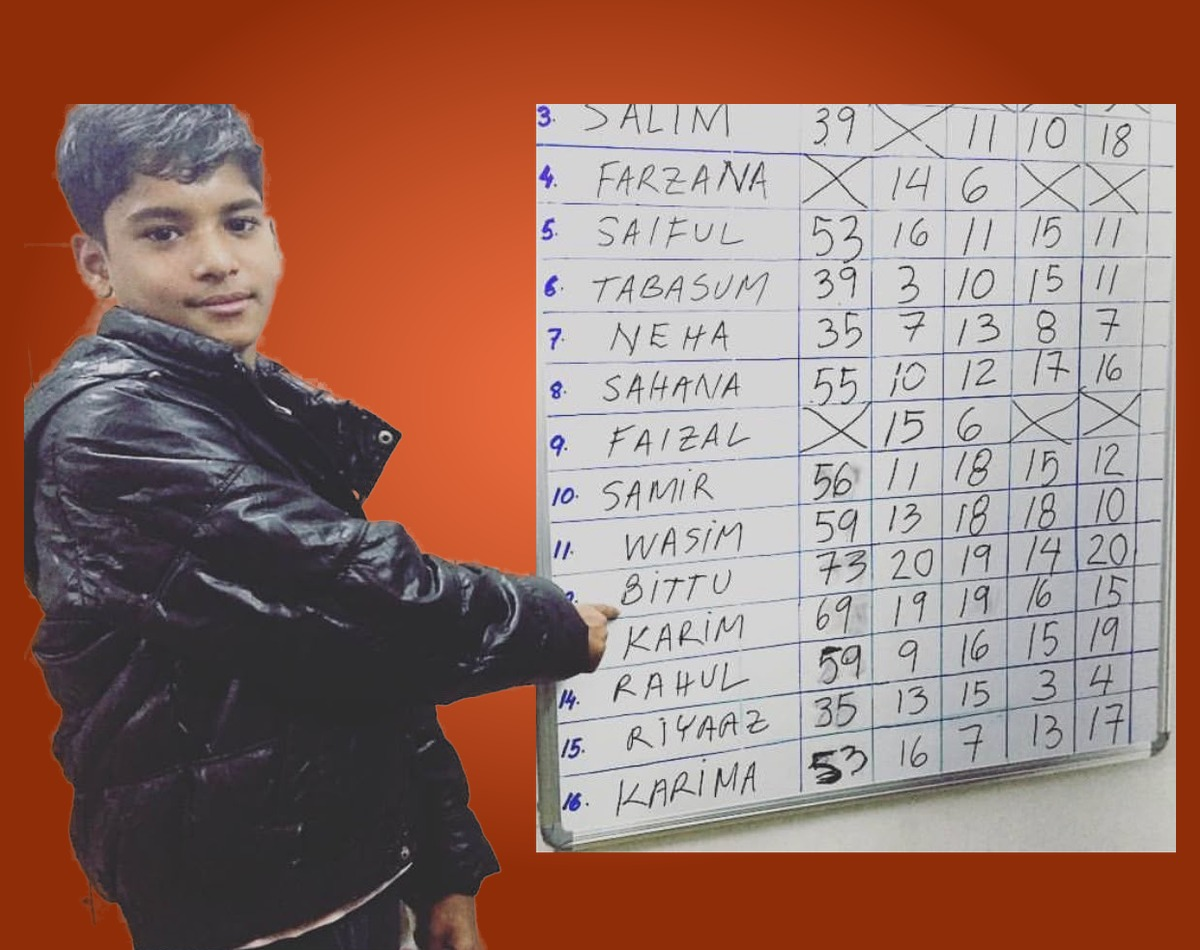
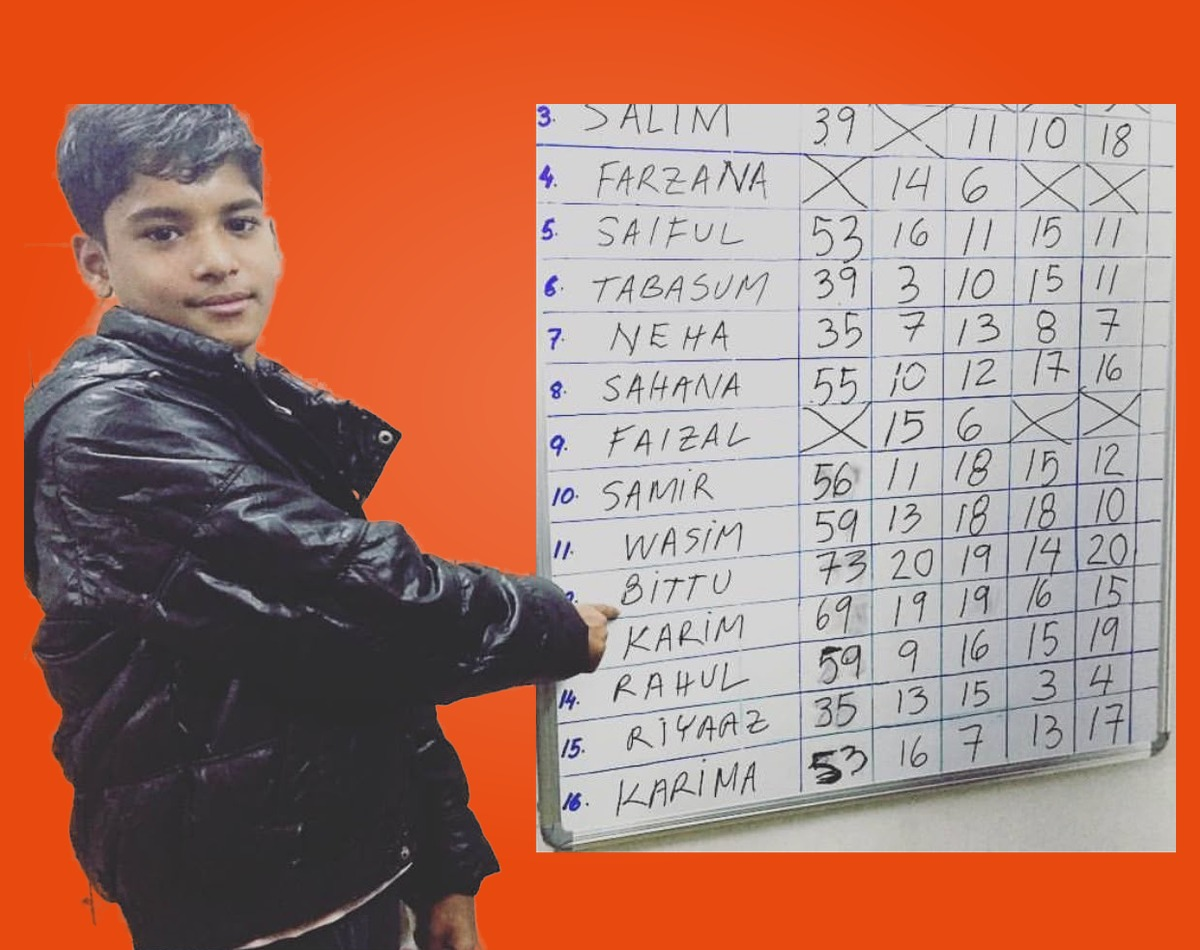
**Shadow outline removed from all chevron shapes — initial fix applied**
- The photos in all four rotating scholar journeys now have the dark shadow rim around each chevron shape removed, while the soft light glow behind each person remains.
- All twenty photos were reprocessed identically to remove the dark edge shading.
- I have checked the preview and captured the rotating strip; the shapes appear to have flat color edges without the shadow outline.
- The original photos and processing script are stored securely inside the project for future updates if needed.
- Credentials & handoff remain the same: admin at /admin, passcode rc-aimgame-admin-2026 (test credential). Donations are still simulated until Razorpay keys are shared.

Please open the preview and confirm if the shadow outlines are resolved on your side. If you notice any further issues, I’m happy to continue with more thorough testing and adjustments.

Next Action Items:
  - **More Scholar Sets**: Send the next scholar's five journey photos and I'll add a fifth rotating set accordingly.
  - **Real Center Photos**: Make the Kolkata and Pune Drive folders public or upload photos so Our Story shows real spaces.
  - **80G Registration Details**: Share your 80G number and validity dates to complete the footer's legal line.
  - **Live Payments**: Add your Razorpay keys so gifts up to ₹1,00,000 charge for real instead of the demo checkout.

Emergent-Commit-Key: 28acf99db8af6b4a87b43498ffc260d60fdb6009ac22cbdc09be85bca1846f9f

Changed region(s): [[0.0, 0.0, 1.0, 1.0], [0.3083, 0.4884, 0.4625, 0.6105]]

diff --git a/.image-sources/reprocess_all.py b/.image-sources/reprocess_all.py
@@ -1,0 +1,156 @@
+from rembg import remove, new_session
+from PIL import Image, ImageDraw
+import numpy as np
+from scipy import ndimage
+
+PANEL = ["#E8490F", "#1E7A3C", "#F2A500", "#E8490F", "#1E7A3C"]
+CANVAS = (1200, 950)
+
+def hex2rgb(h):
+    h = h.lstrip('#')
+    return np.array([int(h[i:i+2], 16) for i in (0, 2, 4)], dtype=float)
+
+def gradient_bg(size, hexcolor, cx=0.5, cy=0.42):
+    # glow center, EXACT panel colour at edges (no dark rim)
+    w, h = size
+    base = hex2rgb(hexcolor)
+    center = base + (255 - base) * 0.20
+    edge = base * 1.0
+    yy, xx = np.mgrid[0:h, 0:w]
+    t = np.clip(np.sqrt(((xx/w-cx)*2)**2 + ((yy/h-cy)*2)**2), 0, 1)[..., None] ** 1.3
+    return Image.fromarray((center*(1-t) + edge*t).astype(np.uint8), 'RGB').convert('RGBA')
+
+def clean_alpha(an, lo=18, min_island=2500):
+    an = an.astype(float)
+    an[an < lo] = 0
+    lab, n = ndimage.label(an > 8)
+    if n:
+        sizes = ndimage.sum_labels(an > 8, lab, range(1, n+1))
+        keep = {i+1 for i, s in enumerate(sizes) if s >= min_island}
+        an[(~np.isin(lab, list(keep))) & (lab > 0)] = 0
+    return an
+
+def cut_a(img, sess, fg, bg, er):
+    return remove(img, session=sess, alpha_matting=True,
+                  alpha_matting_foreground_threshold=fg,
+                  alpha_matting_background_threshold=bg,
+                  alpha_matting_erode_size=er)
+
+def finish(i, im, an, frac, out, lo_trim=20, pad=0):
+    cut = Image.merge('RGBA', (*im.split(), Image.fromarray(an.astype(np.uint8))))
+    ys, xs = np.where(an > lo_trim)
+    y0, y1 = max(0, ys.min()-pad), min(an.shape[0], ys.max()+1+pad)
+    x0, x1 = max(0, xs.min()-pad), min(an.shape[1], xs.max()+1+pad)
+    cut = cut.crop((x0, y0, x1, y1))
+    bg = gradient_bg(CANVAS, PANEL[i-1])
+    scale = min(CANVAS[1]*frac / cut.height, CANVAS[0]*0.96 / cut.width)
+    subj = cut.resize((max(1,int(cut.width*scale)), max(1,int(cut.height*scale))), Image.LANCZOS)
+    bg.alpha_composite(subj, ((CANVAS[0]-subj.width)//2, CANVAS[1]-subj.height))
+    bg.convert('RGB').save(out, quality=92)
+    print(out.split('/')[-1], 'done')
+
+sess_isnet = new_session('isnet-general-use')
+sess_u2 = new_session('u2net')
+OUT = '/app/frontend/public/assets'
+
+# ---- SET A: tl-1..5 (original composition preserved, glow gradient bg) ----
+for i in range(1, 6):
+    im = Image.open(f'/app/.image-sources/seta/tl-{i}.jpg').convert('RGB')
+    m = cut_a(im, sess_isnet, 240, 10, 6)
+    a = clean_alpha(np.array(m.split()[-1]))
+    bg = gradient_bg(im.size, PANEL[i-1])
+    Image.alpha_composite(bg, Image.merge('RGBA', (*im.split(), Image.fromarray(a.astype(np.uint8))))).convert('RGB').save(f'{OUT}/tl-{i}.jpg', quality=92)
+    print(f'tl-{i} done')
+
+# ---- SET B: scholar-b ----
+im = Image.open('/app/.image-sources/setb/b1.jpg').convert('RGB')
+finish(1, im, clean_alpha(np.array(cut_a(im, sess_isnet, 245, 15, 11).split()[-1])), 0.92, f'{OUT}/scholar-b-1.jpg')
+
+im = Image.open('/app/.image-sources/setb/b2.jpg').convert('RGB')
+finish(2, im, clean_alpha(np.array(cut_a(im, sess_u2, 240, 10, 6).split()[-1])), 0.88, f'{OUT}/scholar-b-2.jpg', lo_trim=6, pad=10)
+
+for i in (3, 4):
+    im = Image.open(f'/app/.image-sources/setb/b{i}.jpg').convert('RGB')
+    finish(i, im, clean_alpha(np.array(cut_a(im, sess_u2, 245, 15, 11).split()[-1])), 0.92, f'{OUT}/scholar-b-{i}.jpg')
+
+im = Image.open('/app/.image-sources/setb/b5.jpg').convert('RGB')
+finish(5, im, clean_alpha(np.array(cut_a(im, sess_isnet, 238, 8, 6).split()[-1]), lo=24), 0.94, f'{OUT}/scholar-b-5.jpg')
+
+# ---- SET C: scholar-c ----
+im = Image.open('/app/.image-sources/setc/c1.jpg').convert('RGB')
+a = np.array(cut_a(im, sess_isnet, 245, 15, 11).split()[-1]).astype(float)
+board = np.zeros_like(a); board[0:562, 452:914] = 255
+a = np.maximum(a, board); a[:, 914:] = 0
+finish(1, im, clean_alpha(a, min_island=800), 0.92, f'{OUT}/scholar-c-1.jpg')
+
+im = Image.open('/app/.image-sources/setc/c2.webp').convert('RGB')
+finish(2, im, clean_alpha(np.array(cut_a(im, sess_u2, 240, 10, 6).split()[-1])), 0.88, f'{OUT}/scholar-c-2.jpg', lo_trim=6, pad=10)
+
+im = Image.open('/app/.image-sources/setc/c3.webp').convert('RGB')
+finish(3, im, clean_alpha(np.array(cut_a(im, sess_u2, 245, 15, 11).split()[-1])), 0.92, f'{OUT}/scholar-c-3.jpg')
+
+im = Image.open('/app/.image-sources/setc/c4.jpg').convert('RGB')
+finish(4, im, clean_alpha(np.array(cut_a(im, sess_isnet, 240, 10, 8).split()[-1]), min_island=400), 0.92, f'{OUT}/scholar-c-4.jpg')
+
+im = Image.open('/app/.image-sources/setc/c5b.png').convert('RGB')
+a = np.array(cut_a(im, sess_isnet, 238, 8, 6).split()[-1]).astype(float)
+cert = Image.new('L', im.size, 0)
+ImageDraw.Draw(cert).polygon([(338,190),(493,200),(487,312),(332,302)], fill=255)
+a = np.maximum(a, np.array(cert).astype(float))
+finish(5, im, clean_alpha(a, lo=24, min_island=1200), 0.94, f'{OUT}/scholar-c-5.jpg')
+
+# ---- SET D: scholar-d ----
+im = Image.open('/app/.image-sources/setd/d1.jpg').convert('RGB')
+a = np.array(cut_a(im, sess_isnet, 245, 15, 11).split()[-1]).astype(float)
+board = np.zeros_like(a); board[0:775, 530:1192] = 255
+a = np.maximum(a, board); a[:, 1198:] = 0
+finish(1, im, clean_alpha(a, min_island=800), 0.92, f'{OUT}/scholar-d-1.jpg')
+
+# d2: full pipeline incl. canvas-space paint cleanup, rebuilt on new gradient
+im = Image.open('/app/.image-sources/setd/d2.webp').convert('RGB')
+a = np.array(cut_a(im, sess_isnet, 240, 10, 8).split()[-1]).astype(float)
+a[680:, :300] = 0
+a[:, 1930:] = 0
+a = np.clip((a - 90) * 2.2, 0, 255)
+lab, n = ndimage.label(a > 8)
+sizes = ndimage.sum_labels(a > 8, lab, range(1, n+1))
+keep = {i+1 for i, s in enumerate(sizes) if s >= 1500}
+a[(~np.isin(lab, list(keep))) & (lab > 0)] = 0
+cut = Image.merge('RGBA', (*im.split(), Image.fromarray(a.astype(np.uint8))))
+ys, xs = np.where(a > 20)
+cut = cut.crop((xs.min(), ys.min(), xs.max()+1, ys.max()+1))
+bg = gradient_bg(CANVAS, PANEL[1])
+scale = min(CANVAS[1]*0.88 / cut.height, CANVAS[0]*0.96 / cut.width)
+subj = cut.resize((max(1,int(cut.width*scale)), max(1,int(cut.height*scale))), Image.LANCZOS)
+bg.alpha_composite(subj, ((CANVAS[0]-subj.width)//2, CANVAS[1]-subj.height))
+comp = np.array(bg.convert('RGB'))
+w, h = CANVAS
+yy, xx = np.mgrid[0:h, 0:w]
+t = np.clip(np.sqrt(((xx/w-0.5)*2)**2 + ((yy/h-0.42)*2)**2), 0, 1)[..., None] ** 1.3
+base = hex2rgb(PANEL[1]); grad = ((base + (255-base)*0.20)*(1-t) + base*t).astype(np.uint8)
+def paint(x0, y0, x1, y1):
+    comp[y0:y1, x0:x1] = grad[y0:y1, x0:x1]
+paint(575, 555, 648, 695)
+paint(795, 555, 840, 604)
+paint(590, 790, 735, 950)
+paint(0, 760, 175, 950)
+paint(640, 550, 762, 605)
+paint(795, 550, 848, 607)
+paint(698, 812, 736, 950)
+mask = Image.new('L', (w, h), 0)
+ImageDraw.Draw(mask).polygon([(635,550),(778,550),(778,612),(706,612),(706,708),(635,708)], fill=255)
+mm = np.array(mask)[..., None] > 0
+comp = np.where(mm, grad, comp)
+Image.fromarray(comp).save(f'{OUT}/scholar-d-2.jpg', quality=92)
+print('scholar-d-2 done')
+
+im = Image.open('/app/.image-sources/setd/d3.webp').convert('RGB')
+finish(3, im, clean_alpha(np.array(cut_a(im, sess_isnet, 245, 15, 11).split()[-1])), 0.92, f'{OUT}/scholar-d-3.jpg')
+
+im = Image.open('/app/.image-sources/setd/d4.jpg').convert('RGB')
+finish(4, im, clean_alpha(np.array(cut_a(im, sess_isnet, 240, 10, 8).split()[-1]), min_island=600), 0.92, f'{OUT}/scholar-d-4.jpg')
+
+im = Image.open('/app/.image-sources/setd/d5.png').convert('RGB')
+finish(5, im, clean_alpha(np.array(cut_a(im, sess_isnet, 238, 8, 6).split()[-1]), lo=24, min_island=600), 0.94, f'{OUT}/scholar-d-5.jpg')
+
+print('ALL DONE')

diff --git a/memory/PRD.md b/memory/PRD.md
@@ -130,3 +130,4 @@ Brief (from PDF): A rebooted website for Responsible Charity (RC) Society, a reg
 - Scholar strip (Oct 16): user rejected the flat-solid-colour version; reverted all 10 chevron photos to the pre-flatten state — soft radial-gradient backgrounds in panel colours, full-bleed images (no inset frame), no CSS vignette. Current state: tl-1..5 original photos, scholar-b 1=scene/2=guitar(full hair fix)/3=teen/4=black shirt/5=graduate(clean isnet cutout). Verified in browser
 - Scholar strip (Oct 17): added THIRD rotating set (Karim's journey) as scholar-c-1..5 — scoreboard boy (scoreboard preserved via mask-union, second person removed), guitar teen, AimGame t-shirt portrait, blue kurta (from graduate graphic), graduation on lawn (certificate preserved via mask-union). Same pipeline: rembg cutouts on panel-colour gradient canvases (1200x950), bottom-anchored. Home.jsx SCHOLAR_SETS now has 3 entries; rotation cycles A→B→C every 2.5s. Verified all three states in browser. Source uploads: "1 (4).JPG", "2 (4).webp", "3 (4).webp", "4 (4).jpg", "Screenshot 2026-10-17 at 10.44.40 AM.png" in asset store
 - Scholar strip (Oct 17): added FOURTH rotating set (Firdous's journey) as scholar-d-1..5 — scoreboard boy (board kept via rect-union), guitar teen (chair/stand-guitar/ghosts removed via targeted mask cleanup + gradient paint-over on composite), schoolboy at bank, maroon-shirt portrait (from college-admission graphic), graduate with scroll. Rotation now cycles 4 sets every 2.5s. Verified set D renders + full loop in browser. Source uploads: "1.jpeg", "2 (6).webp", "3 (6).webp", "4.jpeg", "Screenshot 2026-10-17 at 12.32.52 PM.png"
+- Scholar strip (Oct 17): removed the dark shadow rim from ALL shapes — reprocessed all 20 chevron photos (tl + scholar-b/c/d) so backgrounds keep the soft centre glow but fade to the EXACT panel colour at edges (edge factor 1.0, was 0.62). Same cutouts/compositions as before. Full pipeline saved at /app/.image-sources/reprocess_all.py; all 20 original source photos persisted in /app/.image-sources/set{a,b,c,d}/ (survive pod restarts, unlike /tmp). Verified in browser
